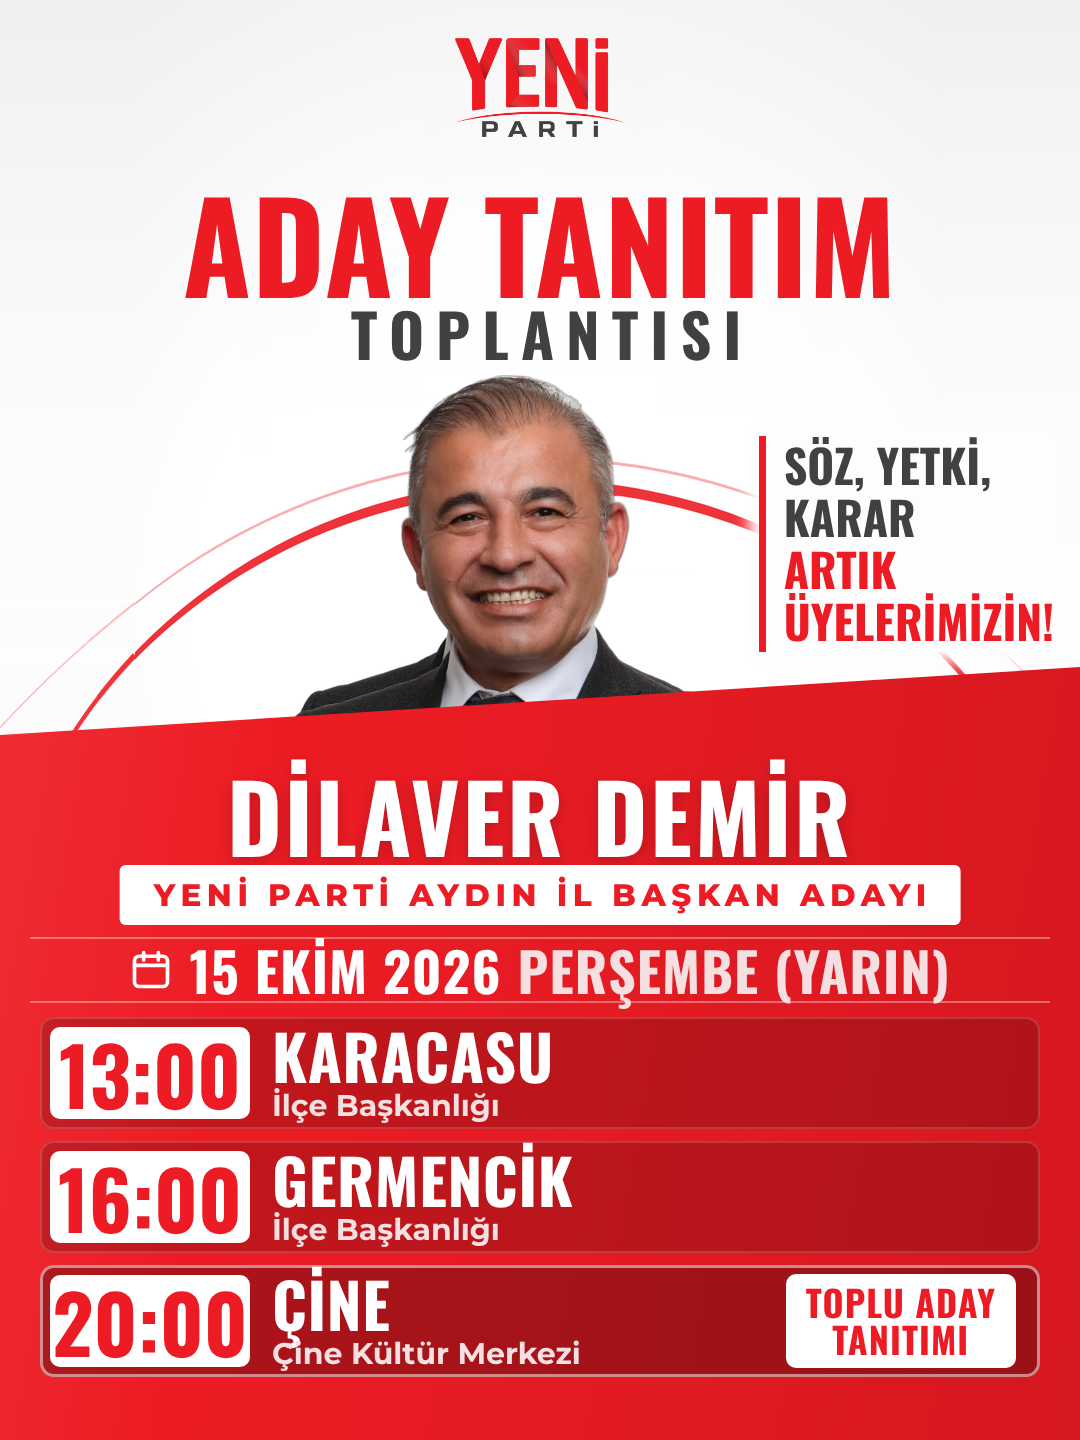
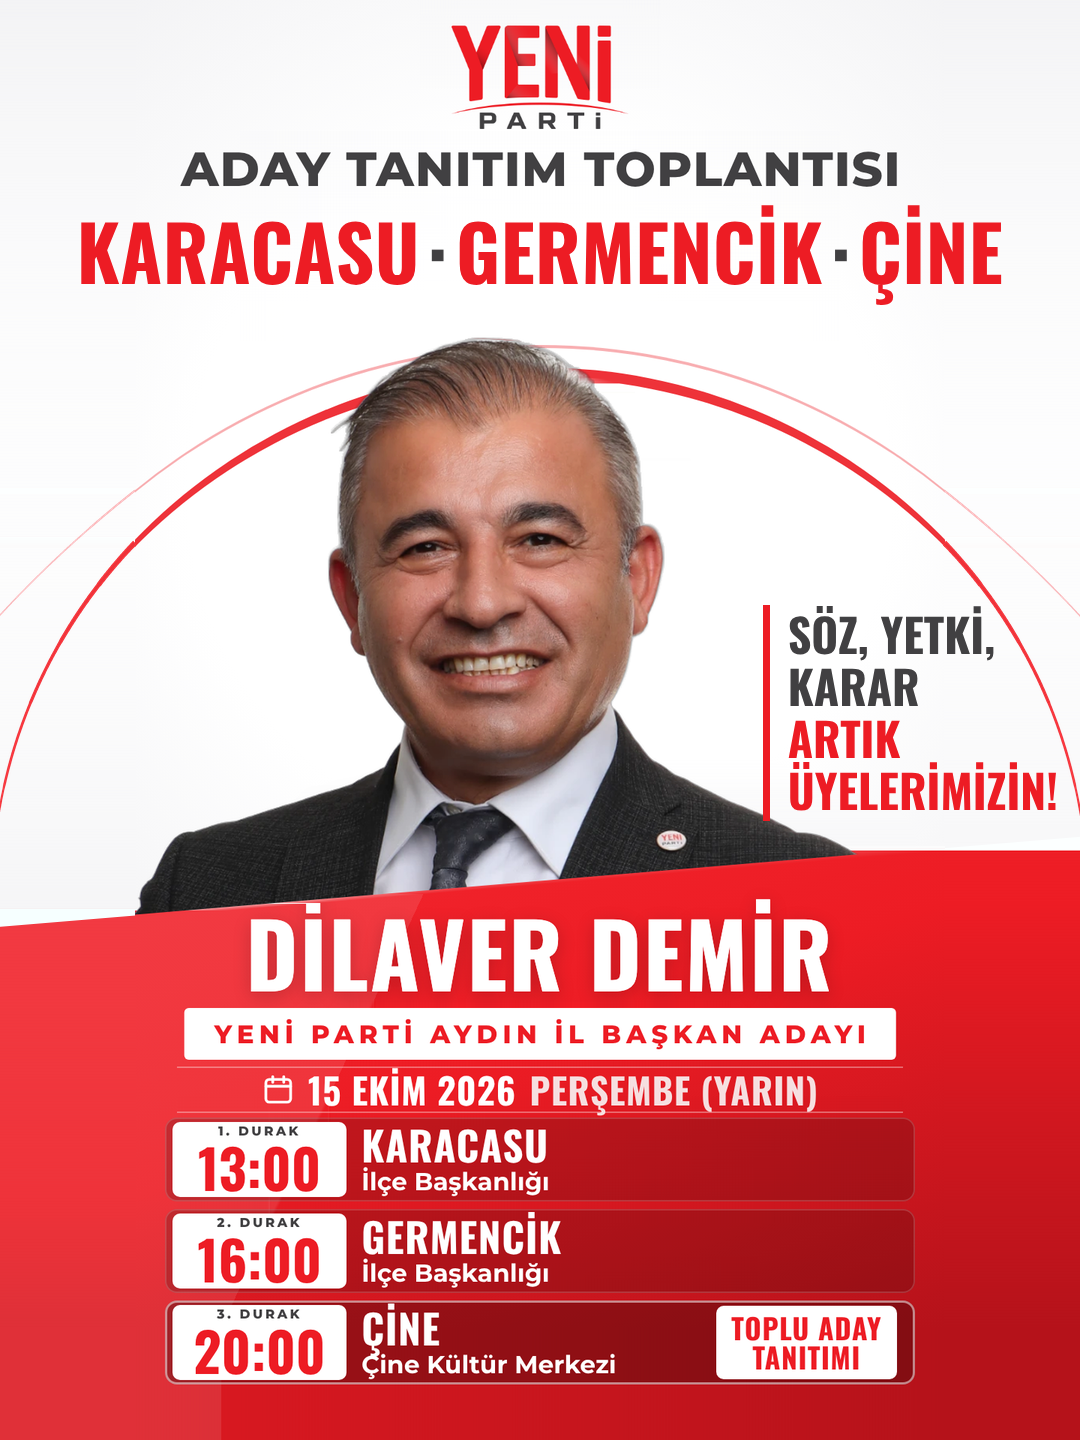
Karacasu-Germencik-Çine programı: Akbük-Söke şablonuna geçildi, başkan büyük ve gövdesi görünür
Claude-Session: https://claude.ai/code/session_01SatttGbgBLoCnk9KGLypWv

diff --git a/tasarim/kisisel/incirliova-orgut/uc-ilce-story.html b/tasarim/kisisel/incirliova-orgut/uc-ilce-story.html
@@ -1,0 +1,79 @@
+<!doctype html><html lang="tr"><meta charset="utf-8">
+<style>
+@font-face{font-family:O7;src:url(../../fontlar-gecici/Oswald-700.ttf)}
+@font-face{font-family:O6;src:url(../../fontlar-gecici/Oswald-600.ttf)}
+@font-face{font-family:M8;src:url(../../fontlar-gecici/Montserrat-800.ttf)}
+@font-face{font-family:M7;src:url(../../fontlar-gecici/Montserrat-700.ttf)}
+:root{--koyu:#414042;--kirmizi:#ED1C24;--etiket:#F6DFE0}
+html,body{margin:0;width:1080px;height:1920px;overflow:hidden}
+body{position:relative;background:url(zemin-kaydir.png) 0 0/1080px 1920px no-repeat}
+.m{position:absolute;left:0;width:1080px;text-align:center;white-space:nowrap;line-height:1}
+
+/* Kuşadası şablonundan ölçülen değerler */
+.ust{top:var(--t1);font:64px M8;letter-spacing:.025em;padding-left:.025em;color:var(--koyu)}
+.sehir{top:var(--t2);font:var(--sehir-boy,150.6px) O7;letter-spacing:1.6px;color:var(--kirmizi)}
+.program{top:var(--t3);font:80.2px O6;letter-spacing:.186em;padding-left:.186em;color:var(--koyu)}
+
+.hap{position:absolute;left:50%;top:1494px;height:69px;transform:translateX(-50%);
+  background:#fff;border-radius:6px;display:flex;align-items:center;padding:0 40px;
+  font:var(--hap-boy,34px) M8;letter-spacing:var(--hap-ls,.2em);color:var(--kirmizi);white-space:nowrap}
+.hap span{margin-right:calc(-1*var(--hap-ls,.2em))}
+
+.kutu{position:absolute;box-sizing:border-box;border-radius:16px;
+  background:rgba(0,0,0,.18);box-shadow:inset 0 0 0 2px rgba(255,255,255,.16);
+  display:flex;align-items:center;gap:25px;padding-left:31px;color:#fff}
+.kutu svg{flex:none;width:62px;height:62px}
+.kutu small{display:block;font:26px M7;letter-spacing:.114em;color:var(--etiket);margin-bottom:8px}
+.kutu b{font:68px/1 O7;font-weight:normal}
+.kutu .gun{font:46px O7;letter-spacing:.02em;color:#fff;margin-left:14px}
+.kutu b.yer{display:block;font-size:var(--yer-boy,60px);line-height:1.14;white-space:nowrap}
+.kutu .sol{display:flex;flex-direction:column;align-items:center;gap:6px;flex:none}
+.kutu .sol small{margin:0}
+.slogan{position:absolute;left:var(--slogan-sol,710px);top:var(--slogan-ust,910px);
+  border-left:8px solid var(--kirmizi);padding:4px 0 6px 22px;white-space:nowrap;
+  font:54px/1.13 O7;letter-spacing:0;color:var(--koyu)}
+.slogan em{display:block;font-style:normal;color:var(--kirmizi)}
+.sehir .ve{color:var(--koyu);font-size:.62em;vertical-align:.16em;margin:0 .06em}
+.tarih-bant{position:absolute;left:56px;right:56px;top:1572px;height:58px;display:flex;align-items:center;justify-content:center;gap:18px;
+  color:#fff;border-top:2px solid rgba(255,255,255,.35);border-bottom:2px solid rgba(255,255,255,.35)}
+.tarih-bant svg{width:44px;height:44px}
+.tarih-bant b{font:48px/1 O7;font-weight:normal;letter-spacing:.02em}
+.tarih-bant span{font:48px/1 O7;letter-spacing:.02em;color:var(--etiket)}
+.durak{position:absolute;left:40px;right:40px;height:122px;display:flex;align-items:center;gap:20px;
+  background:rgba(0,0,0,.18);box-shadow:inset 0 0 0 2px rgba(255,255,255,.16);border-radius:16px;padding:0 24px 0 10px;box-sizing:border-box;color:#fff}
+.durak .saat{flex:none;width:232px;height:106px;background:#fff;border-radius:10px;color:var(--kirmizi);
+  display:flex;flex-direction:column;align-items:center;justify-content:center;font:80px/1 O7}
+.durak .saat small{font:17px/1 M8;letter-spacing:.2em;color:var(--koyu);margin-bottom:3px}
+.durak .bilgi{display:flex;flex-direction:column;justify-content:center;min-width:0}
+.durak .bilgi b{font:54px/1 O7;font-weight:normal;letter-spacing:.02em}
+.durak .bilgi span{font:33px/1.12 M7;margin-top:4px;white-space:nowrap}
+.durak .bilgi i{font:22px/1.15 M7;font-style:normal;color:var(--etiket);white-space:nowrap}
+.logo{position:absolute;left:50%;top:34px;width:236px;transform:translateX(-50%)}
+.not{margin-left:auto;flex:none;text-align:center;font:38px/1.02 O7;letter-spacing:.03em;color:var(--kirmizi);background:#fff;border-radius:10px;padding:10px 20px}
+.vurgu{background:rgba(0,0,0,.28)!important;box-shadow:inset 0 0 0 3px rgba(255,255,255,.5)!important}
+</style>
+<body style="--slogan-ust:760px">
+<img class="logo" src="yp-logo-kirpik.png">
+<div class="m ust" style="top:186px">ADAY TANITIM TOPLANTISI</div>
+<div class="m sehir" style="top:272px;font-size:86px;letter-spacing:1px;visibility:hidden">KARACASU <span class="ve">·</span> GERMENCİK <span class="ve">·</span> ÇİNE</div>
+<div class="slogan">SÖZ, YETKİ,<br>KARAR<em>ARTIK<br>ÜYELERİMİZİN!</em></div>
+<div class="hap" style="top:1344px"><span>YENİ PARTİ AYDIN İL BAŞKAN ADAYI</span></div>
+<div class="tarih-bant" style="top:1422px">
+  <svg viewBox="0 0 24 24" fill="none" stroke="#fff" stroke-width="2" stroke-linecap="round" stroke-linejoin="round">
+    <rect x="3" y="4.5" width="18" height="16.5" rx="2.5"/><path d="M3 9.5h18M8 2.5v4M16 2.5v4"/></svg>
+  <b>15 EKİM 2026</b><span>PERŞEMBE (YARIN)</span>
+</div>
+<div class="durak" style="top:1490px;height:112px">
+  <div class="saat" style="height:100px;font-size:72px"><small>1. DURAK</small>13:00</div>
+  <div class="bilgi"><b>KARACASU</b><span>İlçe Başkanlığı</span></div>
+</div>
+<div class="durak" style="top:1612px;height:112px">
+  <div class="saat" style="height:100px;font-size:72px"><small>2. DURAK</small>16:00</div>
+  <div class="bilgi"><b>GERMENCİK</b><span>İlçe Başkanlığı</span></div>
+</div>
+<div class="durak vurgu" style="top:1734px;height:112px">
+  <div class="saat" style="height:100px;font-size:72px"><small>3. DURAK</small>20:00</div>
+  <div class="bilgi"><b>ÇİNE</b><span>Çine Kültür Merkezi</span></div>
+  <div class="not">TOPLU ADAY<br>TANITIMI</div>
+</div>
+</body></html>

diff --git a/tasarim/kisisel/incirliova-orgut/uc-ilce-baslik.html b/tasarim/kisisel/incirliova-orgut/uc-ilce-baslik.html
@@ -1,0 +1,7 @@
+<!doctype html><html lang="tr"><meta charset="utf-8"><style>
+@font-face{font-family:O7;src:url(../../fontlar-gecici/Oswald-700.ttf)}
+html,body{margin:0;width:1080px;height:1440px;overflow:hidden}
+body{position:relative;background:url(_uc-ilce-zemin.png) 0 0/1080px 1440px no-repeat}
+.sehir{position:absolute;left:0;right:0;top:212px;text-align:center;white-space:nowrap;font:76px/1 O7;letter-spacing:.5px;color:#ED1C24}
+.sehir i{font-style:normal;color:#414042;margin:0 .12em}
+</style><body><div class="sehir">KARACASU<i>·</i>GERMENCİK<i>·</i>ÇİNE</div></body></html>

diff --git a/tasarim/kisisel/incirliova-orgut/post-yap-kayma.py b/tasarim/kisisel/incirliova-orgut/post-yap-kayma.py
@@ -1,0 +1,69 @@
+# 1080x1920 hikâyeyi %75 küçültüp 1080x1440 gönderiye genişletir:
+# yanlara zemin, kırmızı alan ve yaylar devam ettirilir.
+import sys
+from PIL import Image, ImageDraw
+import numpy as np
+src, out = sys.argv[1], sys.argv[2]
+import os
+K=float(os.environ.get('KAYMA','0')); KY=K
+S=0.75; OX=135; W,H=1080,1440
+st=Image.open(src).convert("RGB").resize((810,1440),Image.LANCZOS)
+s=np.asarray(st).astype(float)
+c=np.zeros((H,W,3)); c[:,OX:OX+810]=s
+slope=90/1079
+def kenar_sol(x): return (1370-K)*S+slope*(OX-x)
+def kenar_sag(x): return (1280-K)*S-slope*(x-(OX+810))
+# beyaz zemin: kenar sütunundaki yay piksellerini satırlar arası doldur
+def zemin_sutun(col):
+  v=col.copy(); kirli=(v[:,0]-v[:,1]>12)
+  iyi=np.nonzero(~kirli)[0]
+  for ch in range(3): v[:,ch]=np.interp(np.arange(H),iyi,v[iyi,ch])
+  return v
+solB=zemin_sutun(s[:,0]); sagB=zemin_sutun(s[:,809])
+for x in range(0,OX):
+  e=kenar_sol(x)
+  for y in range(H):
+    t=np.clip(y-e+0.5,0,1)
+    kir=s[max(y,int((1370-K)*S)+2),0]
+    c[y,x]=solB[min(y,int((1370-K)*S)-2)]*(1-t)+kir*t
+for x in range(OX+810,W):
+  e=kenar_sag(x)
+  for y in range(H):
+    t=np.clip(y-e+0.5,0,1)
+    kir=s[max(y,int((1280-K)*S)+2),809]
+    c[y,x]=sagB[min(y,int((1280-K)*S)-2)]*(1-t)+kir*t
+img=Image.fromarray(np.clip(c,0,255).astype("uint8"))
+# yaylar: hikâyedeki uç noktalardan aynı eğrilik ve incelme ile dışa uzatılır
+import math
+def cember(p1,p2,p3):
+  (x1,y1),(x2,y2),(x3,y3)=p1,p2,p3
+  d=2*(x1*(y2-y3)+x2*(y3-y1)+x3*(y1-y2))
+  ux=((x1*x1+y1*y1)*(y2-y3)+(x2*x2+y2*y2)*(y3-y1)+(x3*x3+y3*y3)*(y1-y2))/d
+  uy=((x1*x1+y1*y1)*(x3-x2)+(x2*x2+y2*y2)*(x1-x3)+(x3*x3+y3*y3)*(x2-x1))/d
+  return ux,uy,math.hypot(x1-ux,y1-uy)
+K=4; lay=Image.new("RGBA",(W*K,H*K),(0,0,0,0)); d=ImageDraw.Draw(lay)
+yaylar=[ # (x=0,20,60'taki merkez çizgisi y), uçtaki kalınlık, incelme/px, renk
+  ((804-KY,788.5-KY,759-KY),2.3,0.0045,(248,175,178,255)),
+  ((873.5-KY,853.5-KY,818-KY),7.1,0.025,(238,50,57,255)),
+]
+for (y0,y20,y60),w0,inc,col in yaylar:
+  for yon in (1,-1):
+    X=lambda x: x if yon==1 else 1079-x
+    cx,cy,r=cember((X(0),y0),(X(20),y20),(X(60),y60))
+    ust=[];alt=[]
+    for k in range(0,241):
+      x=-k  # hikâye koordinatı, dışa doğru
+      xs=X(x)
+      dy=math.sqrt(max(r*r-(xs-cx)**2,0)); y=cy-dy
+      nx,ny=(xs-cx)/r,(y-cy)/r
+      w=max(w0-inc*k,0.6)/2
+      f=lambda px,py:((OX+px*S)*K,(py*S)*K)
+      ust.append(f(xs+nx*w,y+ny*w)); alt.append(f(xs-nx*w,y-ny*w))
+    d.polygon(ust+alt[::-1],fill=col)
+lay=lay.resize((W,H),Image.LANCZOS)
+m=Image.new("L",(W,H),0); ImageDraw.Draw(m).rectangle([0,0,OX+1,1000],fill=255); ImageDraw.Draw(m).rectangle([OX+808,0,W,1000],fill=255)
+la=np.asarray(lay).astype(float); mm=np.asarray(m).astype(float)/255
+al=la[...,3:]/255*mm[...,None]
+base=np.asarray(img).astype(float)
+res=base*(1-al)+la[...,:3]*al
+Image.fromarray(np.clip(res,0,255).astype("uint8")).save(out)
